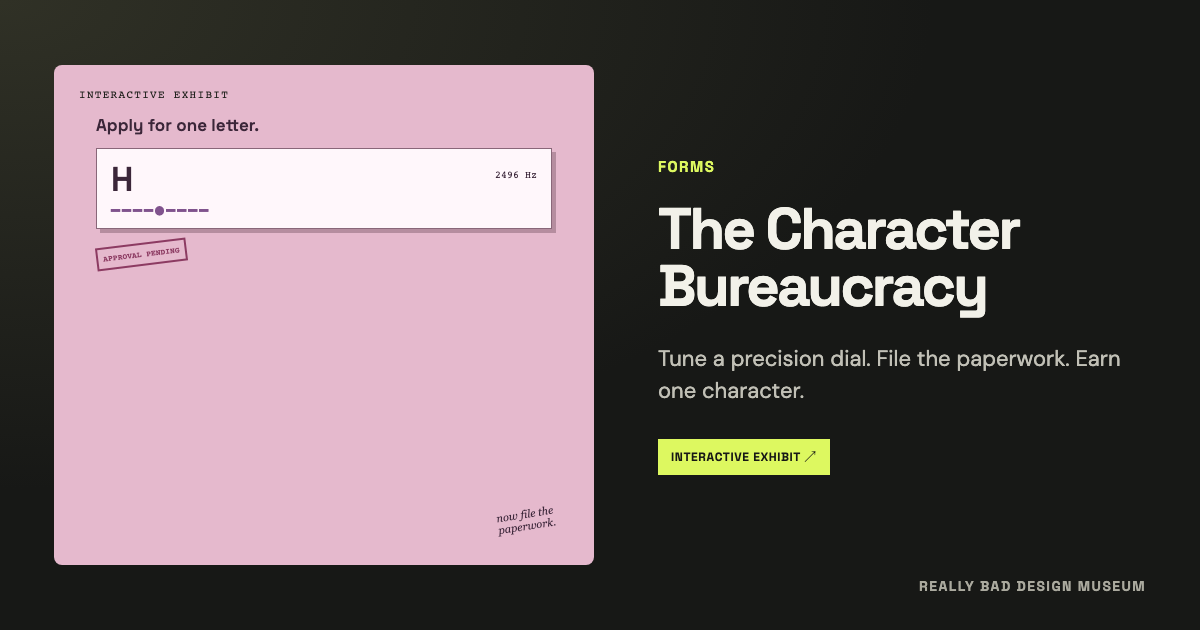
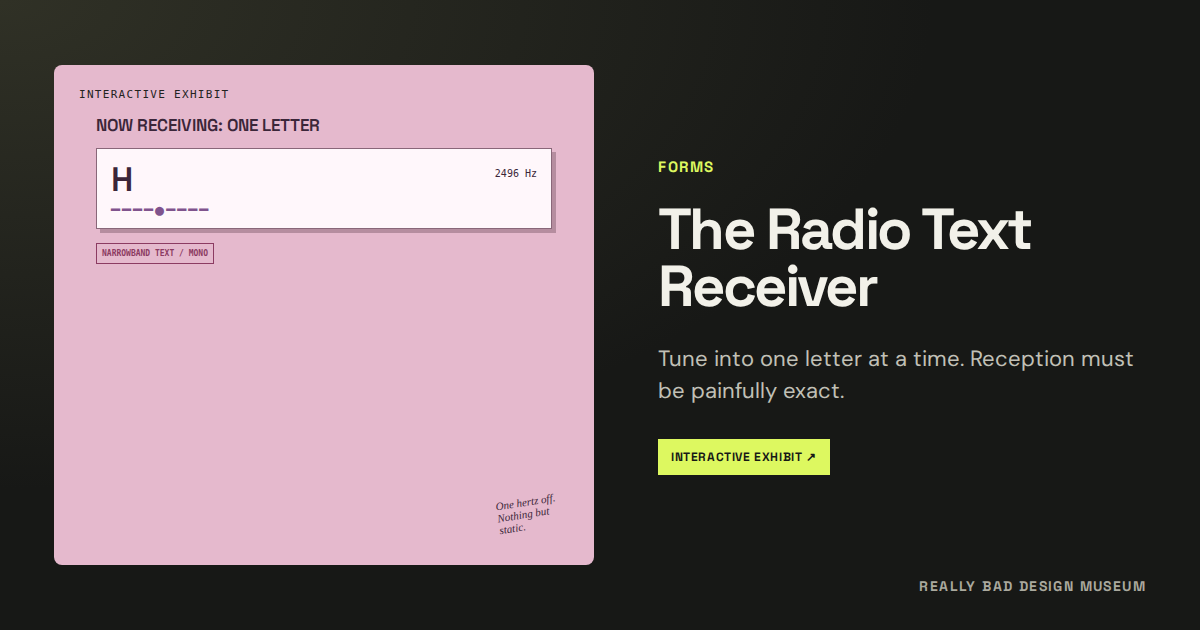
Revamp radio text receiver
The Radio Text Receiver revamp: no permits or stamps, just painfully precise tuning to receive one character at a time. “Make It Worse” changes every station’s frequency after each character.

diff --git a/exhibits/forms-and-inputs.js b/exhibits/forms-and-inputs.js
@@ -2,7 +2,7 @@
 import { createStageShell, createDemoStatus } from "./shared.js";
 
 export const exhibits = [
-  { id: "dropdown", name: "The Character Bureaucracy", category: "Forms", color: "pink", tagline: "Every letter needs a permit.", description: "Tune a precision dial. File the paperwork. Earn one character.", lesson: "One letter is a serious administrative event. Please allow three to five stamps for processing.", fix: "The paperwork was archived. A text box is now handling the letters.", worseChange: "Requires five approval stamps, changes frequency offsets, destroys incorrect permits, and makes Undo remove two characters.", preview: `<div class="preview-dropdown"><span class="form-label">Apply for one letter.</span><div class="preview-dial">H <small>2496 Hz</small><div>━━━━●━━━━</div></div><span class="permit-stamp">APPROVAL PENDING</span><span class="dropdown-note">now file the paperwork.</span></div>`, render: renderDropdown },
+  { id: "dropdown", name: "The Radio Text Receiver", category: "Forms", color: "pink", tagline: "Your message is somewhere in the static.", description: "Tune into one letter at a time. Reception must be painfully exact.", lesson: "The keyboard was receiving too many letters at once. Each character now broadcasts on its own inconvenient frequency.", fix: "The antenna was unplugged. A text box now receives entire sentences.", worseChange: "Reassigns every station and changes frequency offsets after each received character.", preview: `<div class="preview-dropdown"><span class="form-label">NOW RECEIVING: ONE LETTER</span><div class="preview-dial">H <small>2496 Hz</small><div>━━━━●━━━━</div></div><span class="receiver-stamp">NARROWBAND TEXT / MONO</span><span class="dropdown-note">One hertz off. Nothing but static.</span></div>`, render: renderRadioText },
   { id: "word-editor", name: "The Dropdown Word Processor", category: "Forms", color: "orange", tagline: "A whole document. One dropdown per character.", description: "Write, edit, and regret every letter you select from a menu.", lesson: "Typing was alarmingly efficient, so every character now gets its own tiny meeting. Minutes will be distributed one letter at a time.", fix: "The keyboard has been reinstated and is eager to put this behind it.", worseChange: "Reshuffles every character menu after each edit.", preview: `<div class="preview-word-editor"><span>UNTITLED DOCUMENT</span><div class="preview-word-toolbar">File &nbsp; Edit &nbsp; Suffer</div><strong><span>H ⌄</span><span>e ⌄</span><span>l ⌄</span><span>l ⌄</span><span>o ⌄</span></strong><div class="fake-lines"></div><small>5 letters. 5 dropdowns.</small></div>`, render: renderWordEditor },
   { id: "alphabet", name: "The Alphabet Shuffle", category: "Forms", color: "pink", tagline: "A slider with no alphabetic loyalties.", description: "Find a letter. Add it. The entire slider order changes.", lesson: "The alphabet has entered its experimental phase. Familiar order was rejected as creatively limiting.", fix: "The letters have returned to their assigned seats, and the keyboard handles introductions.", worseChange: "Also reshuffles the alphabet whenever you commit a slider adjustment.", preview: `<div class="new-preview preview-alphabet"><span>THE ALPHABET, RECONSIDERED</span><strong>Q &nbsp; A &nbsp; Z &nbsp; ?</strong><div class="preview-track"><i></i></div><small>Same slider. New alphabet.</small></div>`, render: renderAlphabet },
   { id: "phone", name: "The Phone Number Casino", category: "Forms", color: "orange", tagline: "Your number is somewhere in these odds.", description: "Roll each digit. Lock it. Hope the next roll respects it.", lesson: "Your phone number is in there somewhere. The house remains confident that persistence is statistically similar to typing.", fix: "The reels are closed. The whole number can now be entered without placing a bet.", worseChange: "Rerolls and unlocks the digit immediately to the left after each roll.", preview: `<div class="new-preview preview-phone"><span>PLEASE GAMBLE YOUR NUMBER</span><div class="preview-reels"><b>5</b><b>?</b><b>3</b></div><small>Roll. Lock. Regret. ↻</small></div>`, render: renderPhone },
@@ -237,76 +237,36 @@ function findQueryCorrections(query, limit) {
   return selected.map(({ rank, ...choice }) => choice);
 }
 
-function renderDropdown({ stage, mode, shuffle }) {
+function renderRadioText({ stage, mode, shuffle }) {
   const fixed = mode === "fixed";
   const worse = mode === "worse";
   const { status, say } = createDemoStatus();
-  stage.innerHTML = `<div class="form-demo"><span class="demo-kicker">DEPARTMENT OF INDIVIDUAL CHARACTER APPROVAL</span><h2>${fixed ? "Tell us something." : "Apply for one letter."}</h2><p>${fixed ? "A message should take seconds, not geological eras." : `Find a character's frequency. Tune to the exact integer. Lock it. Obtain ${worse ? "five" : "three"} approvals in the specified order. Repeat for every letter, space, and punctuation mark.`}</p><form id="message-form">${fixed ? "" : `<div id="character-machine" class="character-machine"><span class="demo-kicker">01 / TUNE YOUR CHARACTER</span><details class="frequency-directory"><summary>Character frequency directory (not clickable, naturally)</summary><div id="frequency-directory"></div></details><label for="letter-dial">Character tuner: 0–9999 Hz</label><input id="letter-dial" type="range" min="0" max="9999" step="1" value="5000" aria-describedby="tuner-help"><div class="dial-readout"><strong id="tuned-letter">?</strong><output id="frequency-value" for="letter-dial">5000 Hz</output><span id="signal-quality"></span></div><p id="tuner-help">Drag to get close. Use arrow keys or the ±1 buttons for precision. Only the exact frequency is accepted.</p><div class="letter-controls"><button type="button" class="plain-button" id="dial-down" aria-label="Decrease frequency by one">−1 Hz</button><button type="button" class="plain-button" id="dial-up" aria-label="Increase frequency by one">+1 Hz</button><button type="button" class="demo-button" id="lock-letter">Lock character</button></div><div id="character-permit" hidden></div></div>`}<label for="message">${fixed ? "Your message" : "Your painstakingly assembled message"}</label><textarea id="message" maxlength="280" ${fixed ? "required" : "readonly"} placeholder="${fixed ? "Type something nice. Or constructive." : "The empty page awaits its first approved character."}"></textarea><div class="form-bottom"><span id="letter-count">0 / 280 characters</span>${!fixed ? `<button type="button" class="plain-button" id="undo-letter">${worse ? "Undo (deletes TWO)" : "Undo"}</button>` : ""}<button class="demo-button" type="submit">Send message →</button></div></form>${status}<small>${!fixed ? `The alphabet is reshuffled after every character.${worse ? " Frequencies change too. Incorrect paperwork destroys the permit." : ""}<br>` : ""}Demo only. Your message is never sent or saved.</small></div>`;
+  stage.innerHTML = `<div class="form-demo"><span class="demo-kicker">${fixed ? "BROADBAND TEXT / KEYBOARD CONNECTED" : "NARROWBAND TEXT / MODEL RX-280"}</span><h2>${fixed ? "Tell us something." : "Your sentence is on the air."}</h2><p>${fixed ? "Reception has never been clearer." : worse ? "Pirate radio. Every letter changes stations after reception." : "29 stations. One letter per broadcast. Absolutely no predictive tuning."}</p><form id="message-form">${fixed ? "" : `<div id="character-machine" class="character-machine"><div class="receiver-header"><span class="demo-kicker">RX-280 / TEXT RECEIVER</span><span>${worse ? "PIRATE BAND" : "AM / ALPHABET MODULATION"}</span></div><div class="dial-readout" data-locked="false"><strong id="tuned-letter">~ ~ ~</strong><output id="frequency-value" for="letter-dial">5000 Hz</output><span id="signal-quality"></span></div><div class="receiver-scale" aria-hidden="true"><span>0</span><span>2500</span><span>5000</span><span>7500</span><span>9999 Hz</span></div><label for="letter-dial">Tuning frequency</label><input id="letter-dial" type="range" min="0" max="9999" step="1" value="5000"><div class="letter-controls"><button type="button" class="plain-button" id="dial-down" aria-label="Decrease frequency by one" title="Decrease frequency by one">−1 Hz</button><button type="button" class="plain-button" id="dial-up" aria-label="Increase frequency by one" title="Increase frequency by one">+1 Hz</button><button type="button" class="demo-button" id="receive-letter">Receive character</button></div><details class="frequency-directory"><summary>Station directory / A–Z, space, . !</summary><div id="frequency-directory"></div></details></div>`}<label for="message">${fixed ? "Your message" : "Received message"}</label><textarea id="message" maxlength="280" ${fixed ? "required" : "readonly"} placeholder="${fixed ? "Type something nice. Or constructive." : "Awaiting transmission..."}"></textarea><div class="form-bottom"><span id="letter-count">0 / 280 characters</span>${!fixed ? `<button type="button" class="plain-button" id="undo-letter">↶ Undo</button>` : ""}<button class="demo-button" type="submit">Send message →</button></div></form>${status}<small>Demo only. Your message is never sent or saved.</small></div>`;
   const message = stage.querySelector("#message");
   const update = () => { stage.querySelector("#letter-count").textContent = `${message.value.length} / 280 characters`; };
   message.addEventListener("input", update);
   if (!fixed) {
     const dial = stage.querySelector("#letter-dial");
-    const permit = stage.querySelector("#character-permit");
-    const lock = stage.querySelector("#lock-letter");
+    const receive = stage.querySelector("#receive-letter");
     let frequencies = [];
     let selected = null;
-    let locked = null;
-    let approvals = [];
-    let approved = 0;
     const label = letter => letter === " " ? "[space]" : letter;
     const tune = () => {
       const value = Number(dial.value);
       selected = frequencies.find(item => item.frequency === value) || null;
       const nearest = frequencies.reduce((best, item) => Math.abs(item.frequency - value) < Math.abs(best.frequency - value) ? item : best);
-      stage.querySelector("#tuned-letter").textContent = selected ? label(selected.letter) : "≈ " + label(nearest.letter);
+      stage.querySelector("#tuned-letter").textContent = selected ? label(selected.letter) : "~ ~ ~";
       stage.querySelector("#frequency-value").textContent = `${value} Hz`;
-      stage.querySelector("#signal-quality").textContent = selected ? "SIGNAL LOCKED. Now request a permit." : `${Math.abs(nearest.frequency - value)} Hz away from ${label(nearest.letter)}. Not acceptable.`;
+      stage.querySelector("#signal-quality").textContent = selected ? "SIGNAL LOCKED / ONE CHARACTER READY" : `STATIC / ${label(nearest.letter)} is ${Math.abs(nearest.frequency - value)} Hz away`;
+      stage.querySelector(".dial-readout").dataset.locked = String(Boolean(selected));
       dial.setAttribute("aria-valuetext", `${value} hertz. ${selected ? label(selected.letter) : "No exact character"}`);
-      lock.disabled = !selected || locked !== null;
+      receive.disabled = !selected || message.value.length >= 280;
     };
     const scramble = () => {
-      const offset = worse ? 20 + Math.floor(Math.random() * 280) : 137;
+      let offset = worse ? 20 + Math.floor(Math.random() * 280) : 137;
+      if (worse && offset === frequencies[0]?.frequency) offset = 20 + (offset - 19) % 280;
       frequencies = shuffle("ABCDEFGHIJKLMNOPQRSTUVWXYZ .!").map((letter, index) => ({ letter, frequency: offset + index * 337 }));
-      stage.querySelector("#frequency-directory").textContent = frequencies.map(item => `${label(item.letter)} = ${item.frequency}`).join("   /   ");
-      dial.value = "5000";
-      locked = null;
-      permit.hidden = true;
-      dial.disabled = false;
-      stage.querySelector("#dial-down").disabled = false;
-      stage.querySelector("#dial-up").disabled = false;
-      tune();
-    };
-    const renderPermit = () => {
-      permit.hidden = false;
-      permit.innerHTML = `<span class="demo-kicker">02 / CHARACTER PERMIT: ${label(locked)}</span><p>Obtain stamps in this order: <strong>${approvals.join(" → ")}</strong></p><p>${approved} / ${approvals.length} approvals. A wrong stamp ${worse ? "destroys this permit" : "resets all approvals"}.</p><div class="permit-stamps">${shuffle(approvals).map(stamp => `<button type="button" class="plain-button" data-stamp="${stamp}">${stamp}</button>`).join("")}</div><button type="button" class="demo-button" id="add-letter" ${approved < approvals.length ? "disabled" : ""}>03 / Append approved character</button>`;
-      permit.querySelectorAll("[data-stamp]").forEach(button => button.addEventListener("click", () => {
-        if (button.dataset.stamp !== approvals[approved]) {
-          approved = 0;
-          if (worse) {
-            scramble();
-            say("Incorrect stamp. Permit shredded. Frequencies reassigned. Start this character again.");
-            dial.focus();
-            return;
-          }
-          say("Wrong department. All approvals have been reset.");
-        } else {
-          approved++;
-          say(`Stamp ${approved} of ${approvals.length} obtained.`);
-        }
-        renderPermit();
-        if (approved === approvals.length) permit.querySelector("#add-letter").focus();
-        else permit.querySelector("[data-stamp]").focus();
-      }));
-      if (approved === approvals.length) permit.querySelectorAll("[data-stamp]").forEach(button => { button.disabled = true; });
-      permit.querySelector("#add-letter").addEventListener("click", () => {
-        if (message.value.length >= 280) { say("The 280-character limit has been reached. Your approved text is preserved."); return; }
-        message.value += locked;
-        update();
-        scramble();
-        say("ONE character approved. All frequencies reassigned. Please apply again.");
-        dial.focus();
-      });
+      stage.querySelector("#frequency-directory").innerHTML = [...frequencies].sort((first, second) => first.letter.localeCompare(second.letter)).map(item => `<span>${label(item.letter)} <b>${item.frequency} Hz</b></span>`).join("");
     };
     dial.addEventListener("input", tune);
     for (const [id, delta] of [["dial-down", -1], ["dial-up", 1]]) {
@@ -315,25 +275,26 @@ function renderDropdown({ stage, mode, shuffle }) {
         tune();
       });
     }
-    lock.addEventListener("click", () => {
-      locked = selected.letter;
-      approved = 0;
-      approvals = shuffle(worse ? ["Legal", "Finance", "Vowels", "Compliance", "Management"] : ["Legal", "Vowels", "Management"]);
-      dial.disabled = true;
-      stage.querySelector("#dial-down").disabled = true;
-      stage.querySelector("#dial-up").disabled = true;
-      lock.disabled = true;
-      renderPermit();
-      permit.querySelector("[data-stamp]").focus();
+    receive.addEventListener("click", () => {
+      if (!selected || message.value.length >= 280) return;
+      const letter = selected.letter;
+      message.value += letter;
+      update();
+      if (worse) scramble();
+      dial.value = "5000";
+      tune();
+      say(message.value.length === 280 ? "Receiver memory full. 280 characters received." : `${label(letter)} received.${worse ? " All stations have changed frequencies." : " Tuner returned to the middle of the band."}`);
+      dial.focus();
     });
     stage.querySelector("#undo-letter").addEventListener("click", () => {
-      const count = worse ? 2 : 1;
-      if (!message.value) { say("There is nothing to undo. The bureaucracy has already achieved that."); return; }
-      message.value = message.value.slice(0, -count);
+      if (!message.value) { say("Nothing received. Nothing to undo."); return; }
+      message.value = message.value.slice(0, -1);
       update();
-      say(`Removed up to ${count} character${count === 1 ? "" : "s"}. Their paperwork cannot be recovered.`);
+      tune();
+      say("Last character erased. Reception not refunded.");
     });
     scramble();
+    tune();
   }
   stage.querySelector("form").addEventListener("submit", event => {
     event.preventDefault();

diff --git a/styles.css b/styles.css
@@ -303,7 +303,7 @@ body.runaway-won{--bg:#153c2b;--line:#527b60;--muted:#c1d9c7}
 .preview-dial{background:#fff7fb;border:1px solid #896779;padding:9px 14px;font:600 34px var(--heading);box-shadow:4px 4px #b58d9f}
 .preview-dial small{font:10px monospace;float:right;margin-top:10px}
 .preview-dial>div{font:15px monospace;letter-spacing:2px;color:#80538d}
-.permit-stamp{display:inline-block;font:700 8px monospace;border:2px solid #8c3b62;color:#8c3b62;padding:5px;margin-top:14px;transform:rotate(-7deg)}
+.receiver-stamp{display:inline-block;font:700 8px monospace;border:1px solid #8c3b62;color:#8c3b62;padding:5px;margin-top:14px}
 .obstacle-panel{background:#ffffffd9;color:#263c50;border:2px solid currentColor;border-radius:4px;padding:20px;margin-top:25px}
 .obstacle-panel h3{font-size:25px;letter-spacing:-.03em;margin:8px 0 18px}
 .obstacle-panel label,.reading-quiz>label{display:block;font-size:13px;font-weight:600;margin:14px 0 8px}
@@ -315,23 +315,22 @@ body.runaway-won{--bg:#153c2b;--line:#527b60;--muted:#c1d9c7}
 .obstacle-check input{margin-top:4px;flex-shrink:0}
 .obstacle-panel input[type=range]{display:block;width:100%;margin:16px 0;accent-color:#a6221a}
 .character-machine{background:#fae8f3;border:2px solid #976981;padding:23px;margin:26px 0;color:#432d3d;border-radius:4px}
-.frequency-directory{font:11px/1.9 monospace;border:1px dashed #b78b9f;padding:10px;margin-bottom:22px}
+.receiver-header{display:flex;justify-content:space-between;align-items:center;gap:12px;flex-wrap:wrap;margin-bottom:16px}
+.receiver-header>span:last-child{font:10px monospace}
+.receiver-scale{display:flex;justify-content:space-between;gap:4px;padding-top:23px;margin:16px 0;background:repeating-linear-gradient(90deg,#976981 0 1px,transparent 1px 5%) left top/100% 16px no-repeat;font:9px monospace}
+.frequency-directory{font:11px/1.9 monospace;border-top:1px dashed #b78b9f;padding-top:14px;margin-top:20px}
 .frequency-directory summary{cursor:pointer;font:11px/1.6 var(--body)}
-#frequency-directory{margin-top:12px;overflow-wrap:anywhere;max-height:150px;overflow:auto}
+#frequency-directory{display:grid;grid-template-columns:repeat(auto-fit,minmax(130px,1fr));gap:4px 18px;margin-top:12px;overflow-wrap:anywhere;max-height:150px;overflow:auto}
+#frequency-directory>span{display:flex;justify-content:space-between;gap:8px;border-bottom:1px solid #dfc3d0}
 #letter-dial{width:100%;display:block;accent-color:#8c336c;margin:20px 0}
-.dial-readout{display:flex;align-items:center;gap:12px;flex-wrap:wrap;background:#3b2b39;color:#ffdeee;padding:16px;font-family:monospace;border:4px inset #976981}
-.dial-readout strong{font-size:28px;line-height:1.2}
+.dial-readout{display:flex;align-items:center;gap:12px;flex-wrap:wrap;min-height:114px;background:repeating-linear-gradient(0deg,transparent 0 3px,#ffffff06 3px 4px),#292d29;color:#e4e9d7;padding:16px;font-family:monospace;border:4px inset #976981}
+.dial-readout[data-locked=true]{color:#dafa85;border-color:#71905b}
+.dial-readout strong{font-size:24px;line-height:1.2;min-width:7ch}
 .dial-readout output{font-size:16px;margin-left:auto}
-.dial-readout>span{width:100%;font-size:10px;color:#f4bace}
-#tuner-help{font-size:11px;margin:14px 0}
+.dial-readout>span{width:100%;font-size:10px;min-height:2.8em;line-height:1.4;color:inherit}
 .character-machine .letter-controls{flex-wrap:wrap;gap:7px;margin-bottom:0}
 .character-machine .letter-controls button{font-size:11px;flex-grow:1;min-height:40px}
 .exhibit-stage button:disabled{opacity:.4;cursor:not-allowed}
-#character-permit{margin-top:24px;border-top:2px dashed #b58b9f;padding-top:20px}
-#character-permit p{font-size:12px}
-.permit-stamps{display:flex;gap:8px;flex-wrap:wrap;margin:16px 0}
-.permit-stamps button{flex:1;min-width:82px;min-height:40px;font:11px monospace;text-transform:uppercase;background:#f7d3e7;border:2px dashed #a26b8a}
-#character-permit>.demo-button{width:100%;min-height:44px}
 .reading-progress{max-width:620px;margin:20px auto;font:11px var(--heading);letter-spacing:1px;background:#e0e7cc;padding:15px}
 .reading-quiz{font-family:var(--body);background:#e9ebdb;padding:22px;border:1px solid #adb79e}
 .reading-quiz .demo-button{margin:10px 0}

diff --git a/README.md b/README.md
@@ -49,7 +49,7 @@ Add `?mode=hard` to any exhibit URL to open it directly in hard mode, for exampl
 - The Cancellation Labyrinth (`/exhibit/cancel`): navigate four double-negative confirmations to cancel a fictional subscription. Worse mode adds two checkpoints, shuffles button positions, and resets progress on a wrong answer.
 - The Recipe Odyssey (`/exhibit/recipe`): six mandatory reading-comprehension quizzes stand between you and toast. The fake skip button detours to an ad. Worse mode resets reading progress after wrong answers or attempts to skip.
 - The Expanding Form (`/exhibit/expanding-form`): a conventional contact form with name, email, subject, and message fields. Extra spacing grows exponentially as `32 * (2^(characters/5) - 1)` pixels per field, capped at 60,000 pixels. The final Message field sends the submit button even farther away: `128 * (2^(characters/3) - 1)`, capped at 360,000 pixels. Worse mode reduces the exponent scales to three and two characters respectively, triples both caps, and adds folding effects. Compress temporarily removes gaps without losing answers; typing expands them again. The viewport stays bounded, reduced motion removes folding/animation, and fixed mode keeps stable spacing.
-- The Character Bureaucracy (`/exhibit/dropdown`): tune a 0–9999 Hz slider to an exact character frequency, lock it, and collect three ordered approval stamps before appending one character. The alphabet reshuffles after every character. Worse mode requires five stamps, changes frequency offsets, destroys incorrect permits, and makes Undo delete two characters.
+- The Radio Text Receiver (`/exhibit/dropdown`): tune a 0–9999 Hz slider to receive one character at its exact station frequency. Anything between stations is static. A non-clickable directory lists A–Z, space, and punctuation; the dial resets after each reception. Normal mode keeps stations stable. Worse mode reassigns every station and changes frequency offsets after each character. Undo removes the last character, and fixed mode restores a normal text box. The original URL is preserved.
 - The Seismic Text Editor (`/exhibit/seismic-editor`): every edit shakes the exhibit and increases the chance that the whole sentence tumbles into a pile of letter tiles. Slow typing produces gentle tremors, rapid edits amplify them, and newly entered punctuation adds a jolt, with extra force for exclamation marks. Pausing for 800 milliseconds returns the next edit to the gentle baseline. Pasting adds stress for each added character; reaching 100% stress guarantees a collapse. A collapse pauses editing but preserves the exact input, and Rebuild restores the letters and resets stress and typing cadence. Worse mode builds stress twice as fast and shakes harder. Fixed mode removes shaking and collapse risk. Reduced-motion preferences disable both animations, and the museum's controls never move.
 - The Volume Seesaw (`/exhibit/volume-seesaw`): add pebbles, bricks, and anvils to either end of a wobbling beam. Its angle drives a silent volume slider; hold the setting to freeze it, or remove weights and rebalance. Worse mode adds buoyant balloons and rolls a weight to the opposite side every third addition. Reduced motion settles instantly, and leaving the tab pauses active wobbling. Fixed mode uses a normal slider. No audio plays or device volume changes.
 - The Windswept Volume Slider (`/exhibit/wind-volume`): drag a vertical slider through gusts that twist its track and shove the simulated volume around. Pointer movement is projected onto the rotating track, so up stops reliably meaning louder. Letting go releases the handle, but the wind keeps moving the value until Save shelters it at 35-39% (the target is 37%). Worse mode brings stronger gusts and possible upside-down controls. Keyboard controls work too; reduced motion freezes the track but retains numeric wind interference. Fixed mode provides a stable, predictable slider. No audio plays, no audio APIs are used, and device volume never changes.
